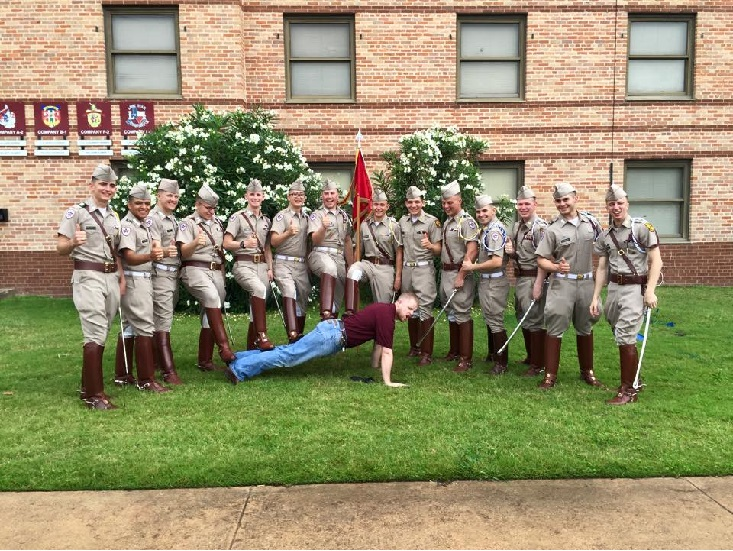
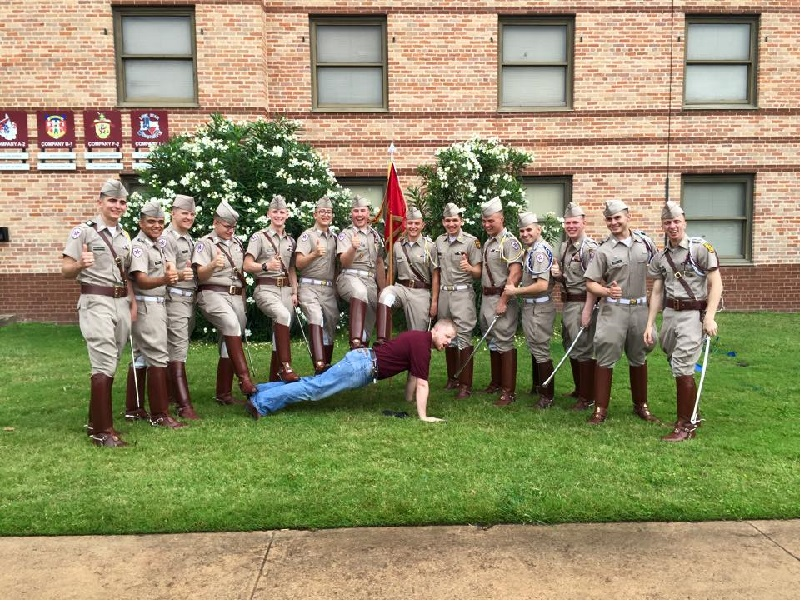
risize pictures again!

diff --git a/home/home.php b/home/home.php
@@ -18,7 +18,7 @@
 						</div>
 					</div>
                         <div class="slider-wrapper theme-default">
-                            <style>#slider {width: 80%; height:500px; margin-left: auto; margin-right: auto;}</style>
+                            <style>#slider {width: 60%; height:600px; margin-left: auto; margin-right: auto;}</style>
                             <div id="slider" class="nivoSlider">
                                 <img src="home/images/March_In.jpg" data-thumb="home/images/March_In.jpg" alt="auto" />
                                 <img src="home/images/rudders.jpg" data-thumb="home/images/rudders.jpg" alt="auto" />
